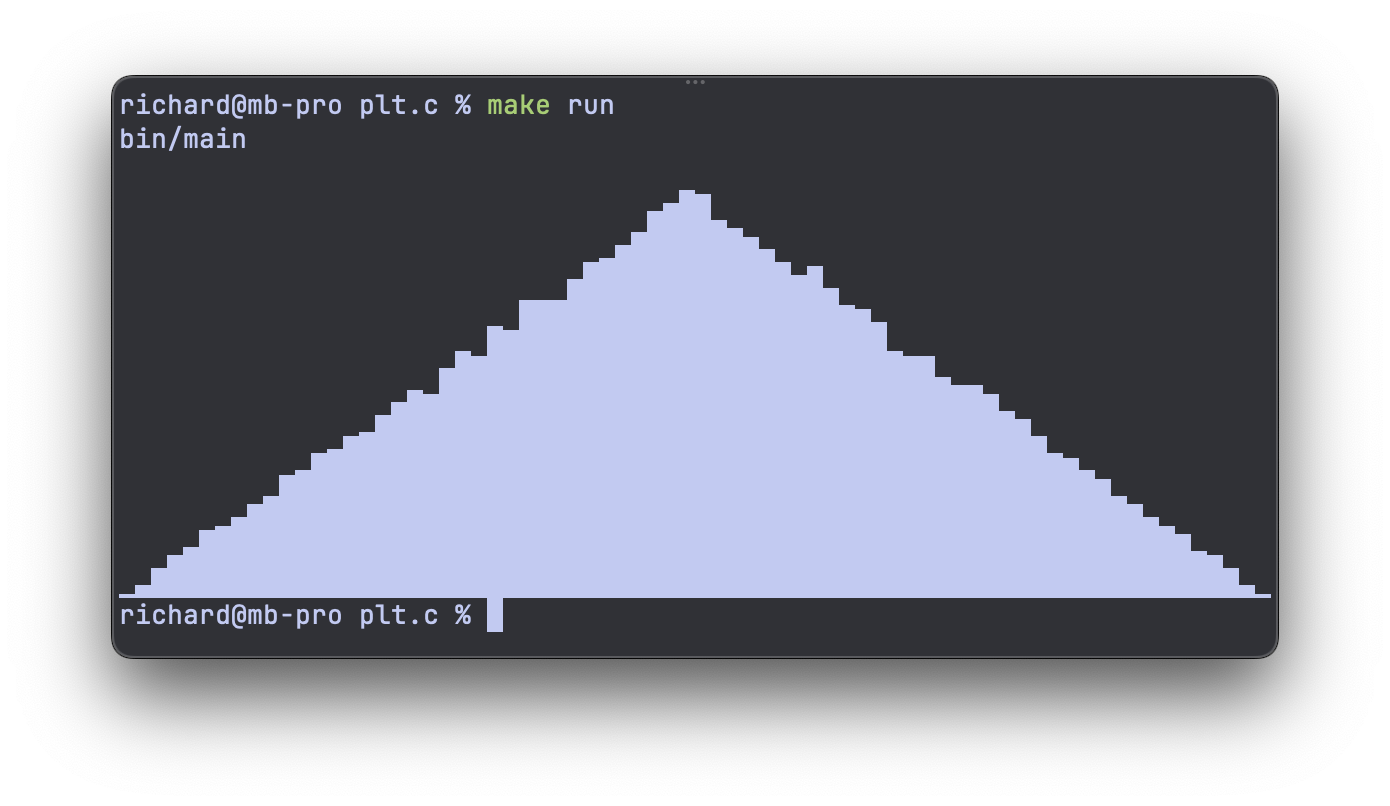
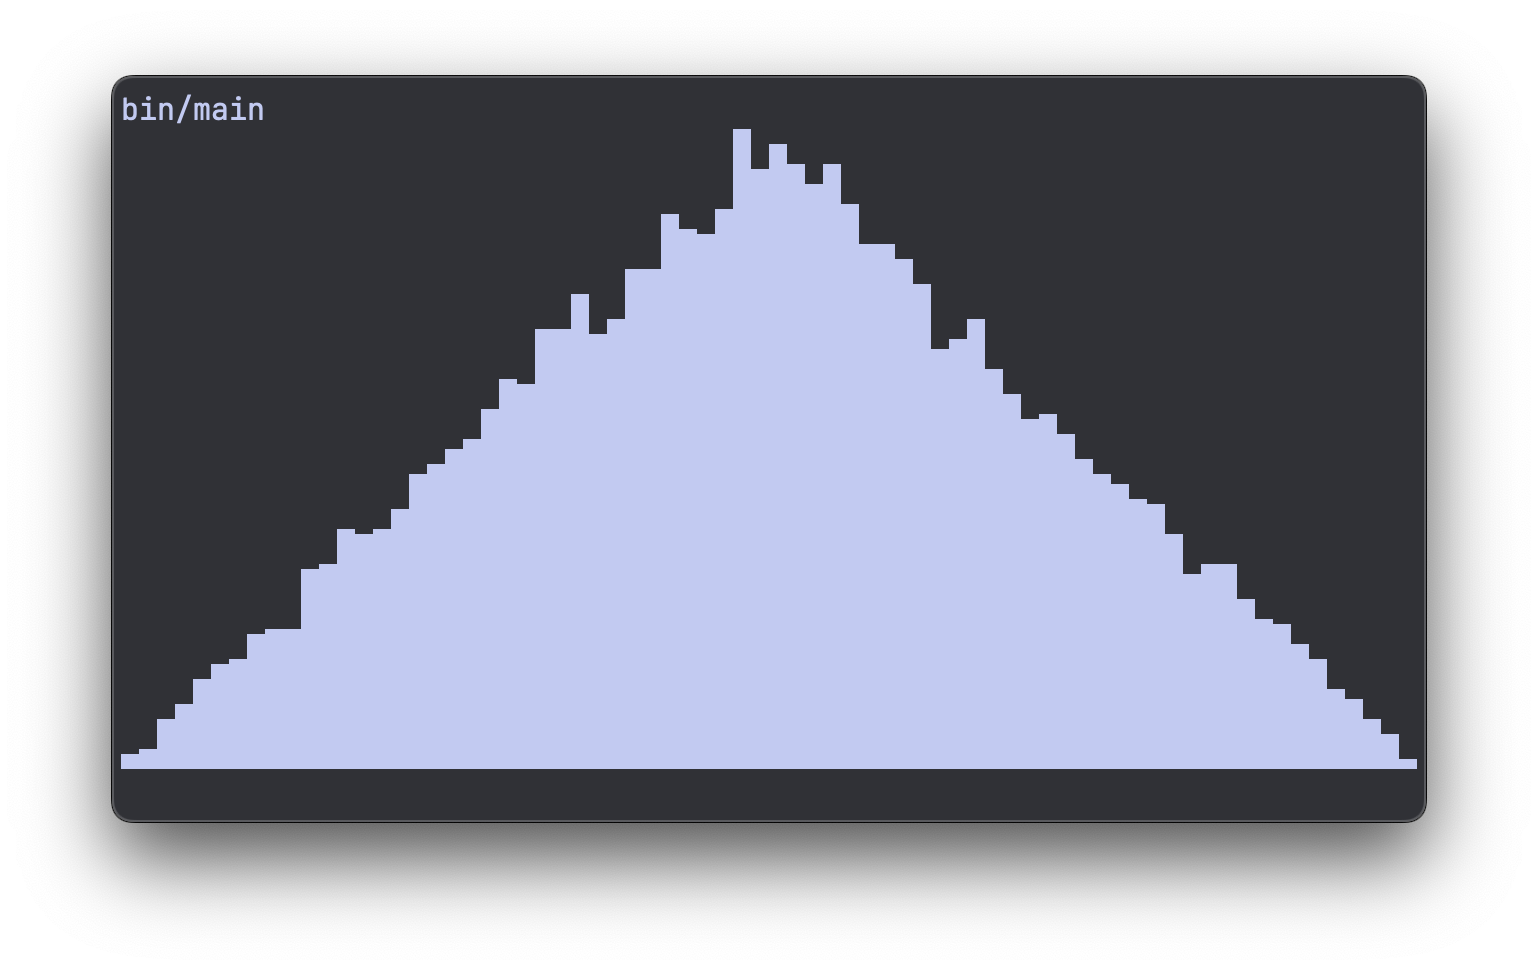
Small fixes, improve example image

Changed region(s): [[0.0619, 0.062, 0.959, 0.8995], [0.7115, 0.4963, 0.8043, 0.6203], [0.8043, 0.6203, 0.8353, 0.6514]]

diff --git a/src/main.c b/src/main.c
@@ -2,8 +2,8 @@
 #include <stdio.h>
 #include <stdlib.h>
 
-#define SAMPLE_COUNT 100000
-#define ROWS 12
+#define SAMPLE_COUNT 20000
+#define ROWS 16
 #define COLS 72
 
 int main(void) {
@@ -14,7 +14,6 @@ int main(void) {
 
     data[i] = roll_a + roll_b;
   }
-  printf("\n");
 
   plt_hist(data, SAMPLE_COUNT, ROWS, COLS);
 
